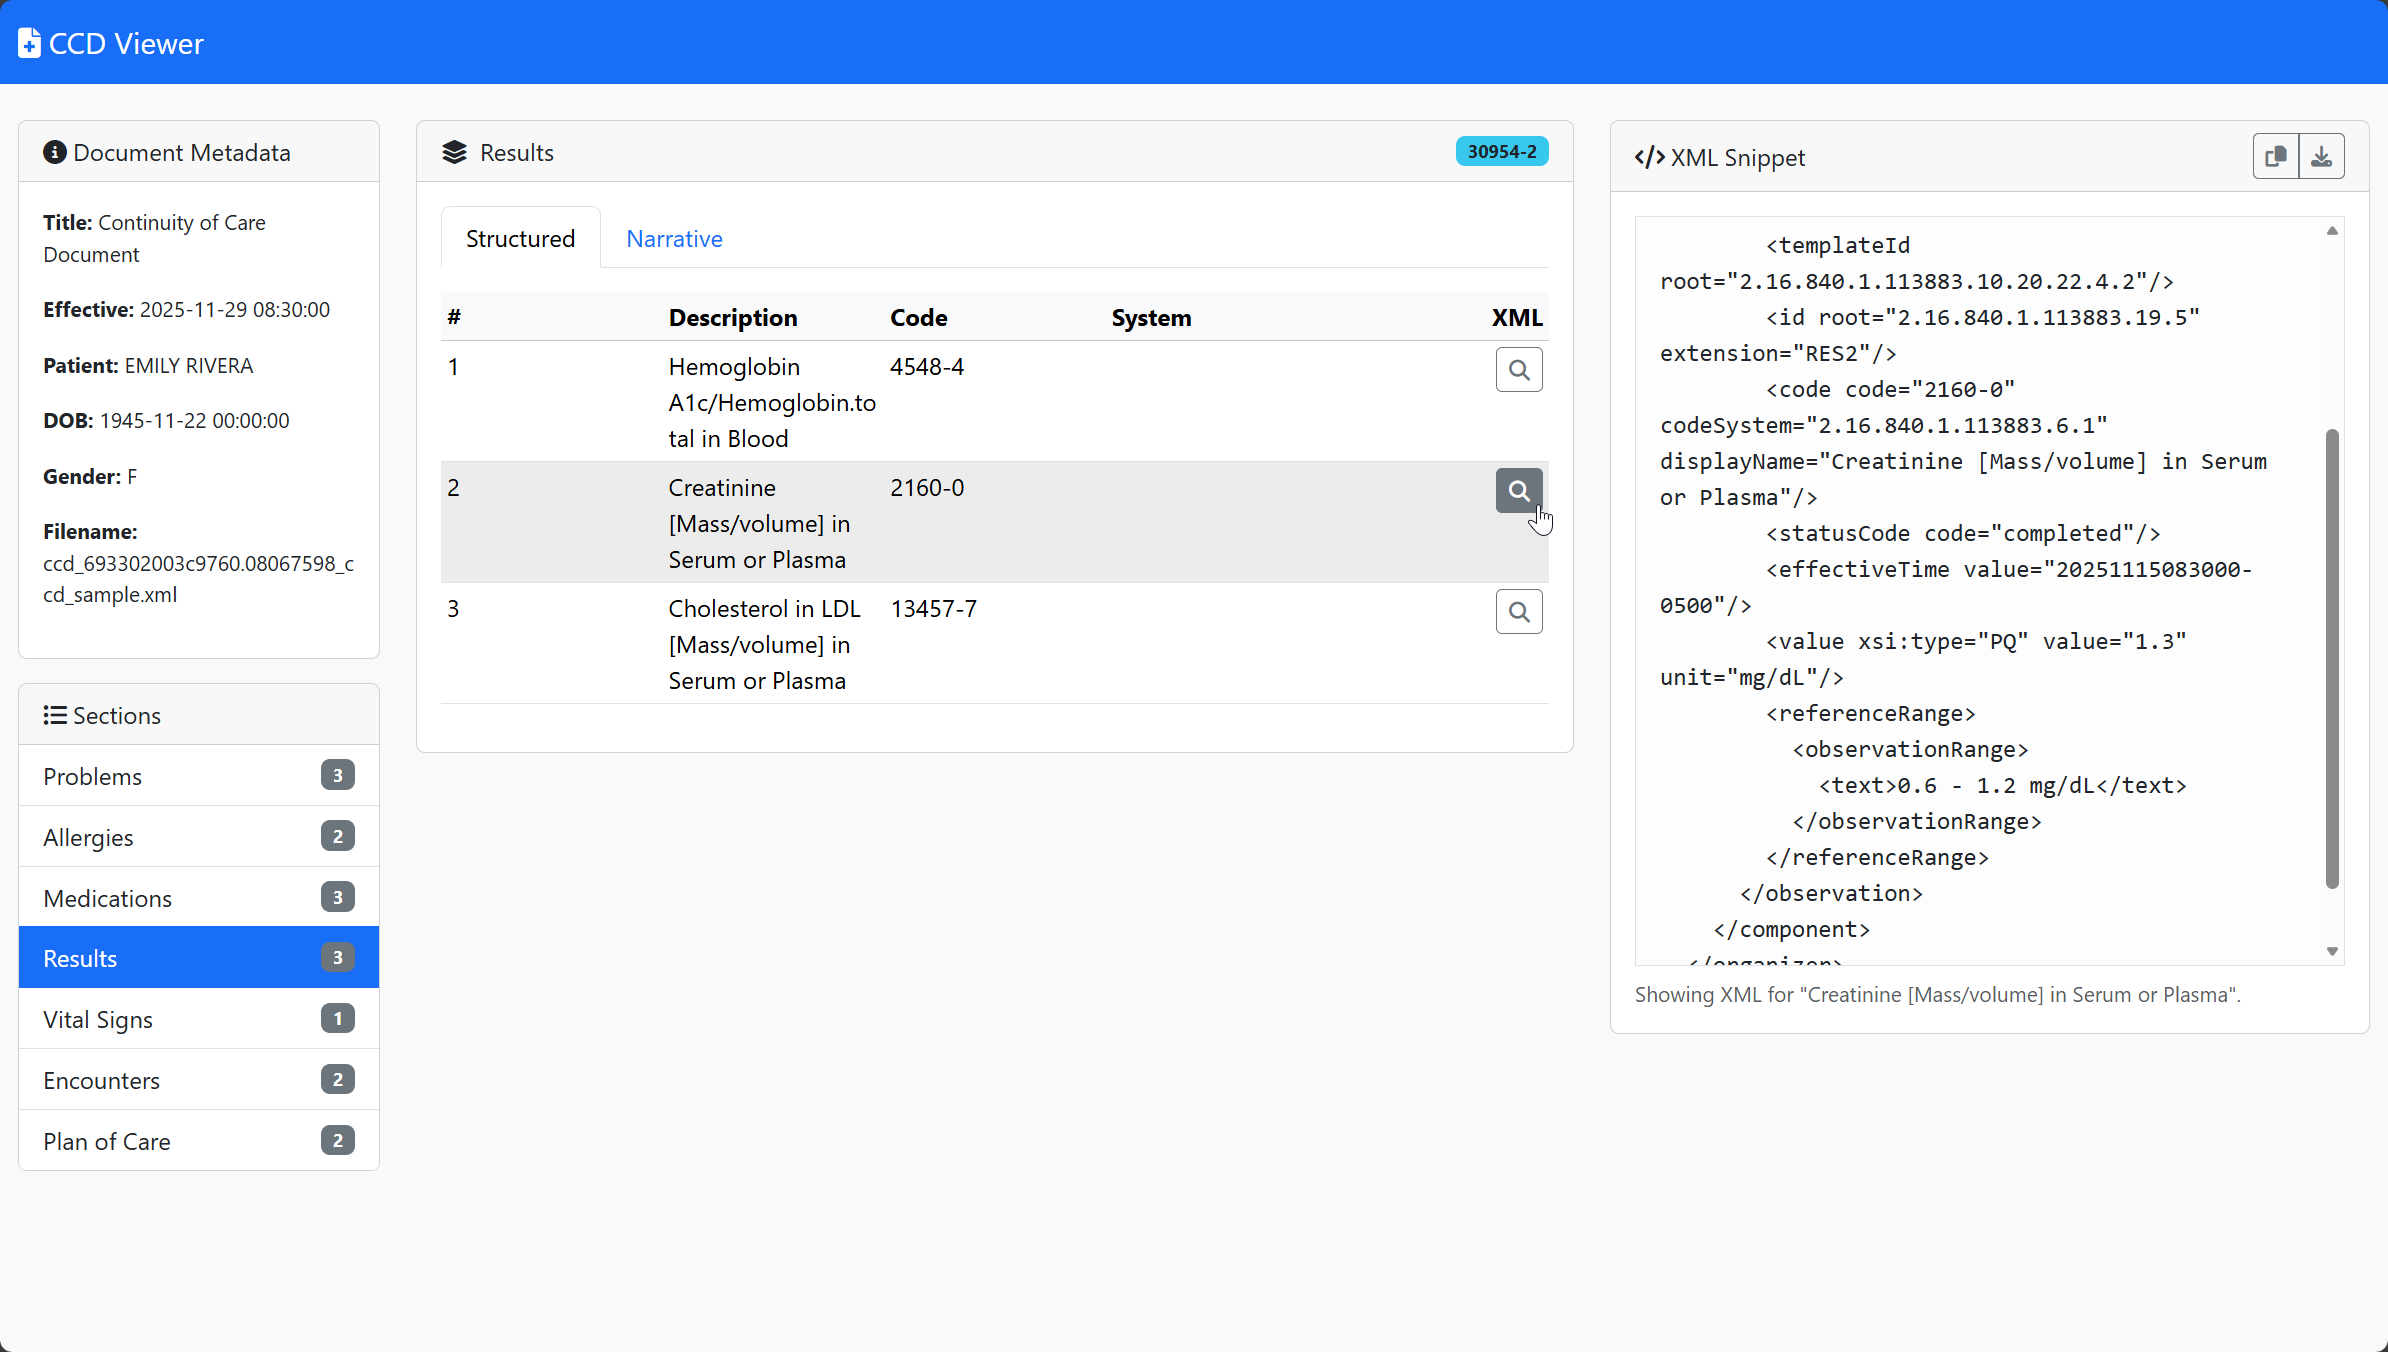
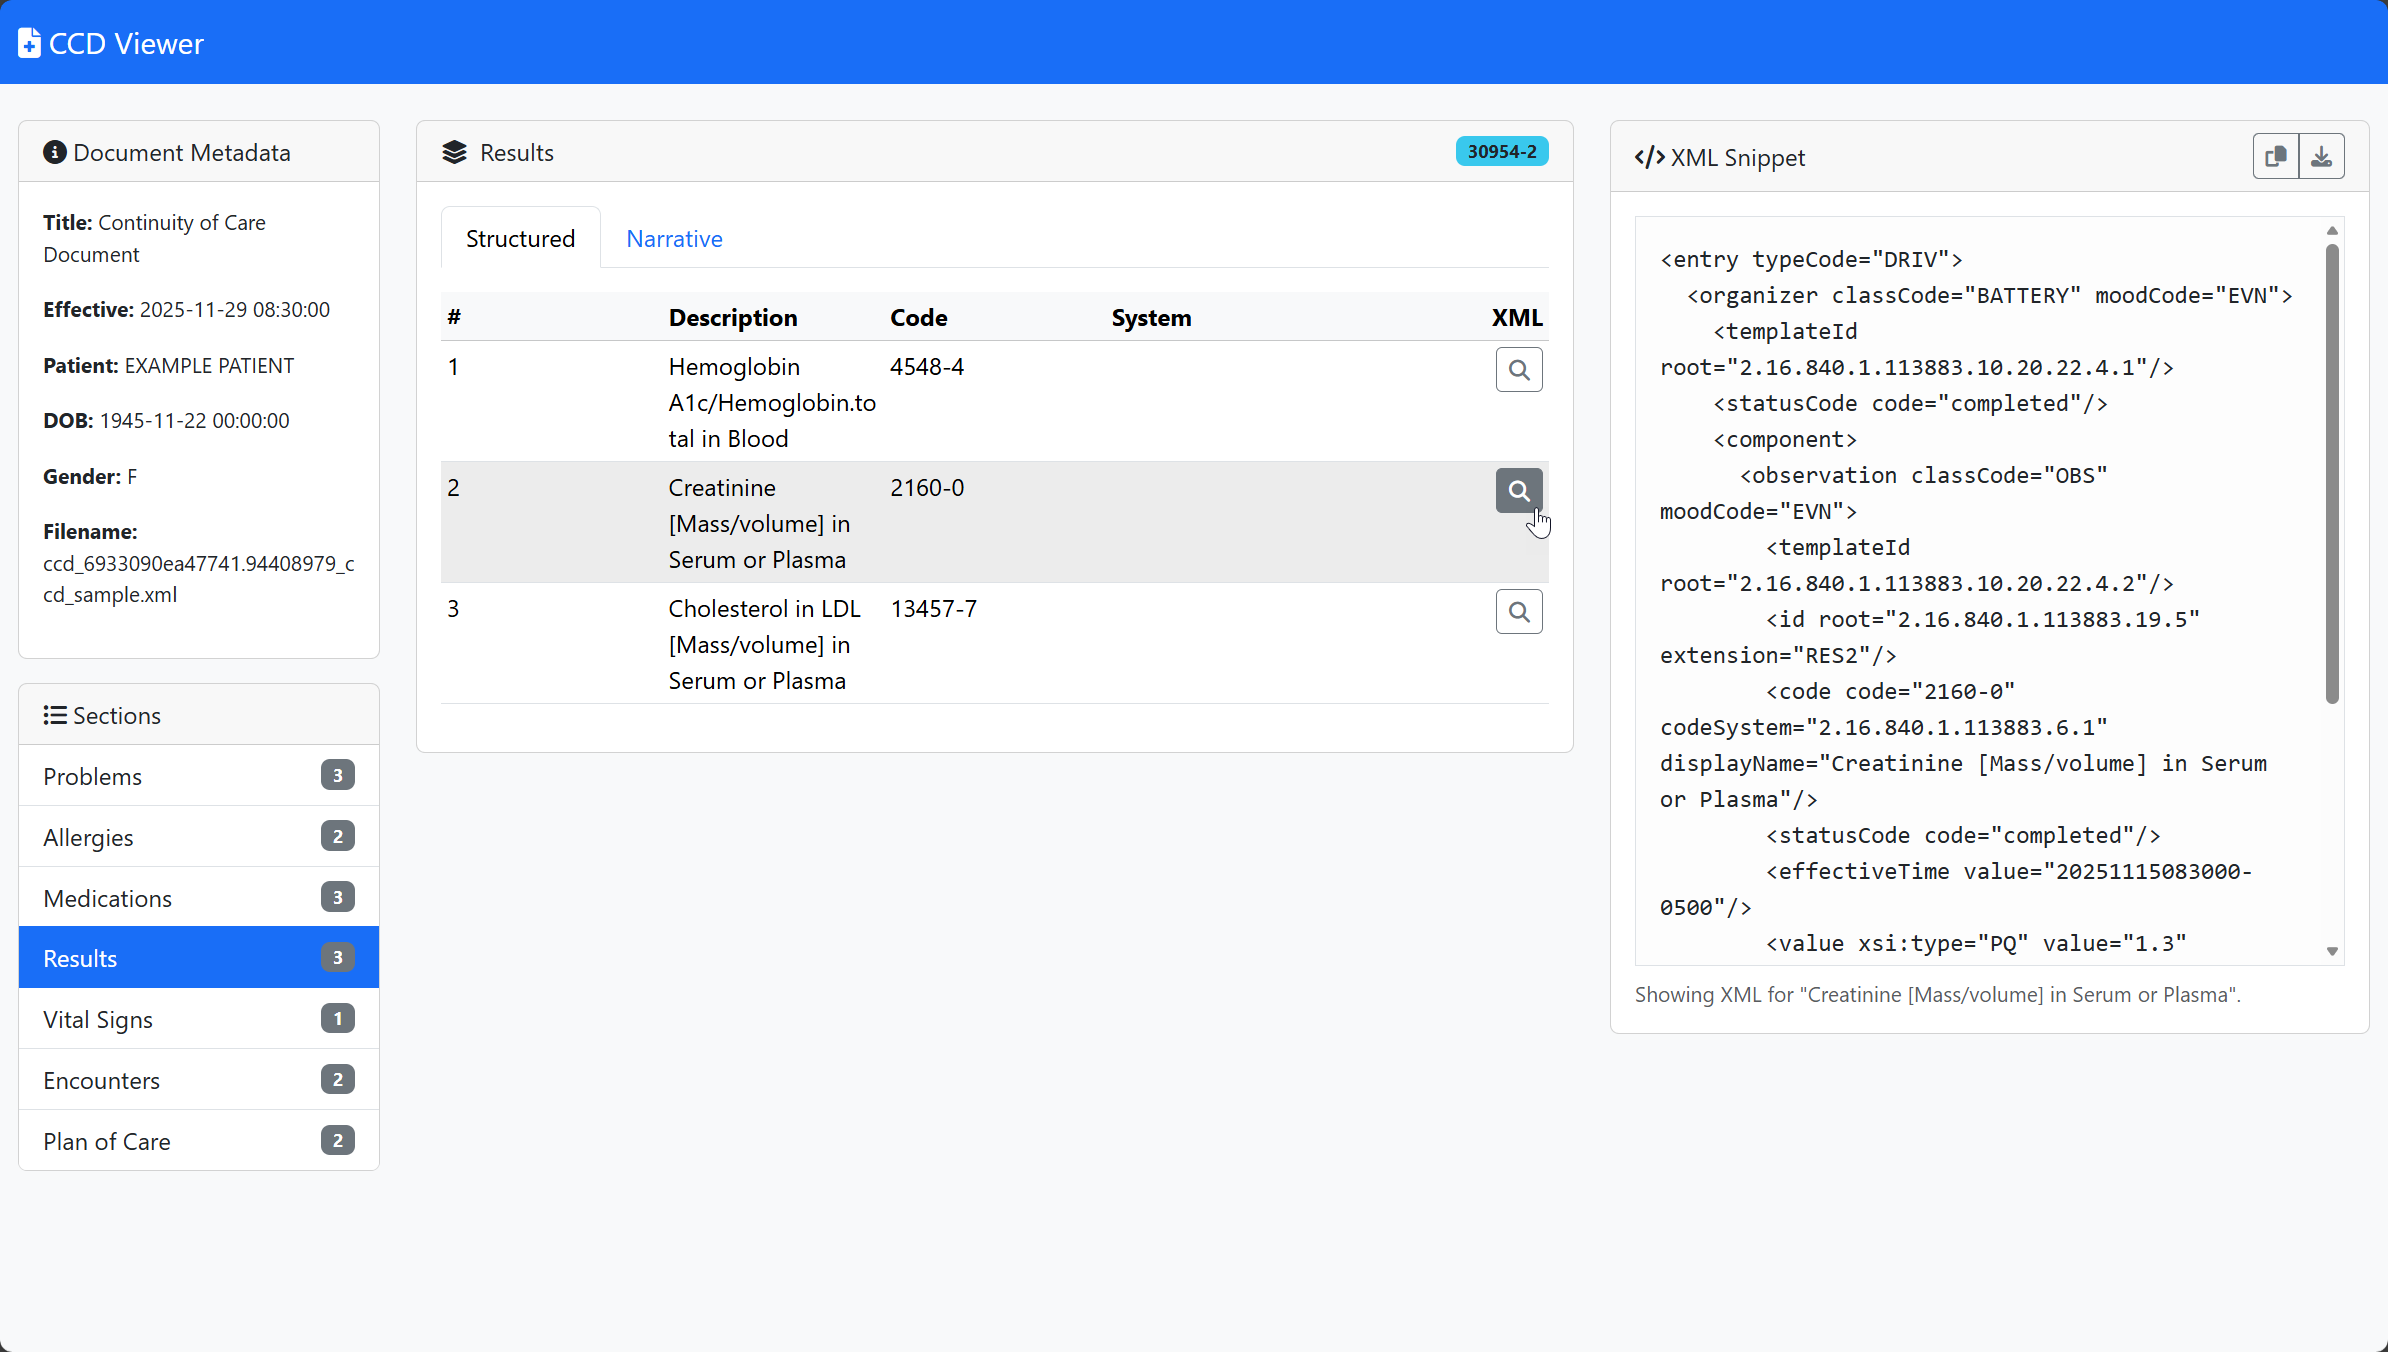
Clarify sample CCD uses fictional data

diff --git a/README.md b/README.md
@@ -44,6 +44,7 @@ docker run -p 8080:80 \
 ## Sample data
 
 - A small example file is included at `ccd_sample.xml`. Upload it to try the viewer quickly.
+- The sample CCD uses fully fictional names and identifiers for demonstration.
 
 ## Directory structure
 
